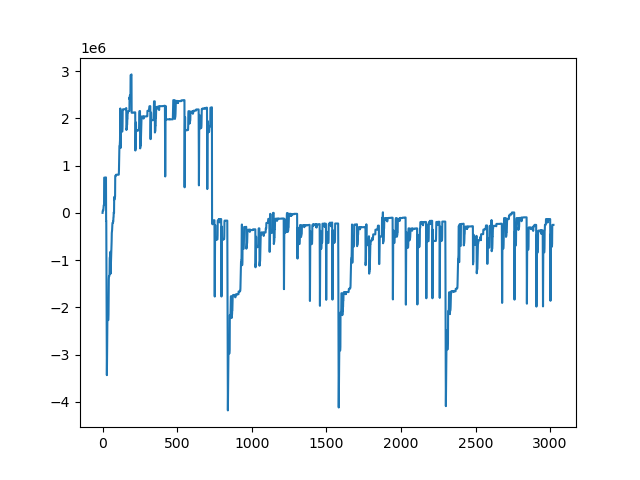
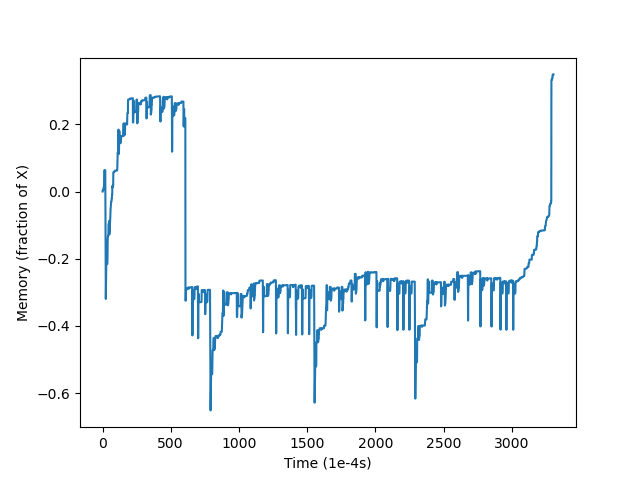
Fixed path bug and made figures fraciton of X

diff --git a/performance/test_performance.py b/performance/test_performance.py
@@ -103,9 +103,11 @@ def runner(storage, copy_X: Optional[bool]):
 
         import matplotlib.pyplot as plt
 
-        graph = np.array(mp.memory_usage) - mp.initial_memory
+        graph = (np.array(mp.memory_usage) - mp.initial_memory) / data_memory
         plt.plot(graph)
-        plt.savefig(f"figures/memory_{storage}_copy_{copy_X}.png")
+        plt.ylabel("Memory (fraction of X)")
+        plt.xlabel("Time (1e-4s)")
+        plt.savefig(f"performance/memory_{storage}_copy_{copy_X}.png")
 
         return extra_to_initial_ratio
 
